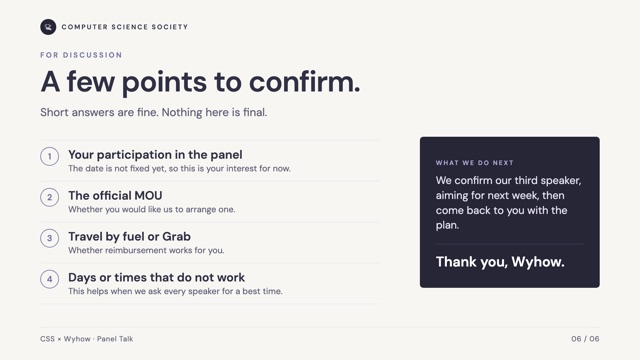
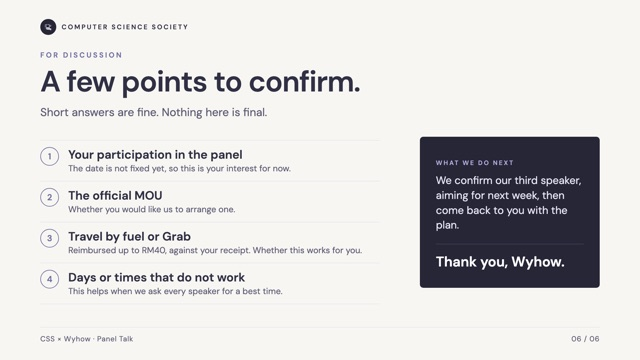
Cap travel reimbursement at RM40 and ask for a receipt

Changed region(s): [[0.0938, 0.6722, 0.5625, 0.7028]]

diff --git a/external/01-wyhow-panel/index.html b/external/01-wyhow-panel/index.html
@@ -91,7 +91,7 @@
     .perk svg{display:block;width:72px;height:72px;fill:none;stroke:var(--purple);stroke-width:2.6;stroke-linecap:round;stroke-linejoin:round}
     .perk h3{margin-top:30px;font-size:46px;line-height:1.1;letter-spacing:-.5px}
     .perk p{margin-top:14px;font-size:29px;line-height:1.4;color:var(--muted)}
-    .note-strip{position:absolute;left:120px;right:120px;top:840px;font-size:26px;color:var(--muted)}
+    .note-strip{position:absolute;left:120px;right:120px;top:866px;font-size:26px;color:var(--muted)}
 
     /* Slide 5: timeline */
     .timeline{position:absolute;left:120px;right:120px;top:450px;display:grid;grid-template-columns:repeat(6,1fr);gap:0 28px}
@@ -203,7 +203,7 @@
         <article class="perk rise" style="--d:3">
           <svg viewBox="0 0 64 64" aria-hidden="true"><path d="M8 40v-9l8-14h24l10 14h6v9"/><path d="M8 40h48"/><circle cx="20" cy="44" r="5"/><circle cx="46" cy="44" r="5"/><path d="M18 31h28"/></svg>
           <h3>Travel expense covered</h3>
-          <p>We reimburse your car fuel or your Grab to campus.</p>
+          <p>We reimburse your fuel or Grab, up to RM40.</p>
         </article>
         <article class="perk rise" style="--d:4">
           <svg viewBox="0 0 64 64" aria-hidden="true"><rect x="10" y="28" width="44" height="26"/><rect x="6" y="20" width="52" height="8"/><path d="M32 20v34M32 20c-4-10-16-10-14-2 1 3 8 2 14 2zM32 20c4-10 16-10 14-2-1 3-8 2-14 2z"/></svg>
@@ -216,7 +216,7 @@
           <p>You are our guest for dinner on the day, at no cost to you.</p>
         </article>
       </div>
-      <p class="note-strip rise" style="--d:6">For the travel reimbursement, please keep your fuel receipt or Grab screenshot.</p>
+      <p class="note-strip rise" style="--d:6">To be reimbursed, please send us your receipt: a fuel receipt or a Grab screenshot.</p>
       <div class="footer"><span>CSS × Wyhow · Panel Talk</span><span>04 / 06</span></div>
     </section>
 
@@ -250,7 +250,7 @@
       <ol class="points">
         <li class="rise" style="--d:3">Your participation in the panel<span>The date is not fixed yet, so this is your interest for now.</span></li>
         <li class="rise" style="--d:4">The official MOU<span>Whether you would like us to arrange one.</span></li>
-        <li class="rise" style="--d:5">Travel by fuel or Grab<span>Whether reimbursement works for you.</span></li>
+        <li class="rise" style="--d:5">Travel by fuel or Grab<span>Reimbursed up to RM40, against your receipt. Whether this works for you.</span></li>
         <li class="rise" style="--d:6">Days or times that do not work<span>This helps when we ask every speaker for a best time.</span></li>
       </ol>
       <div class="closing rise" style="--d:4">
